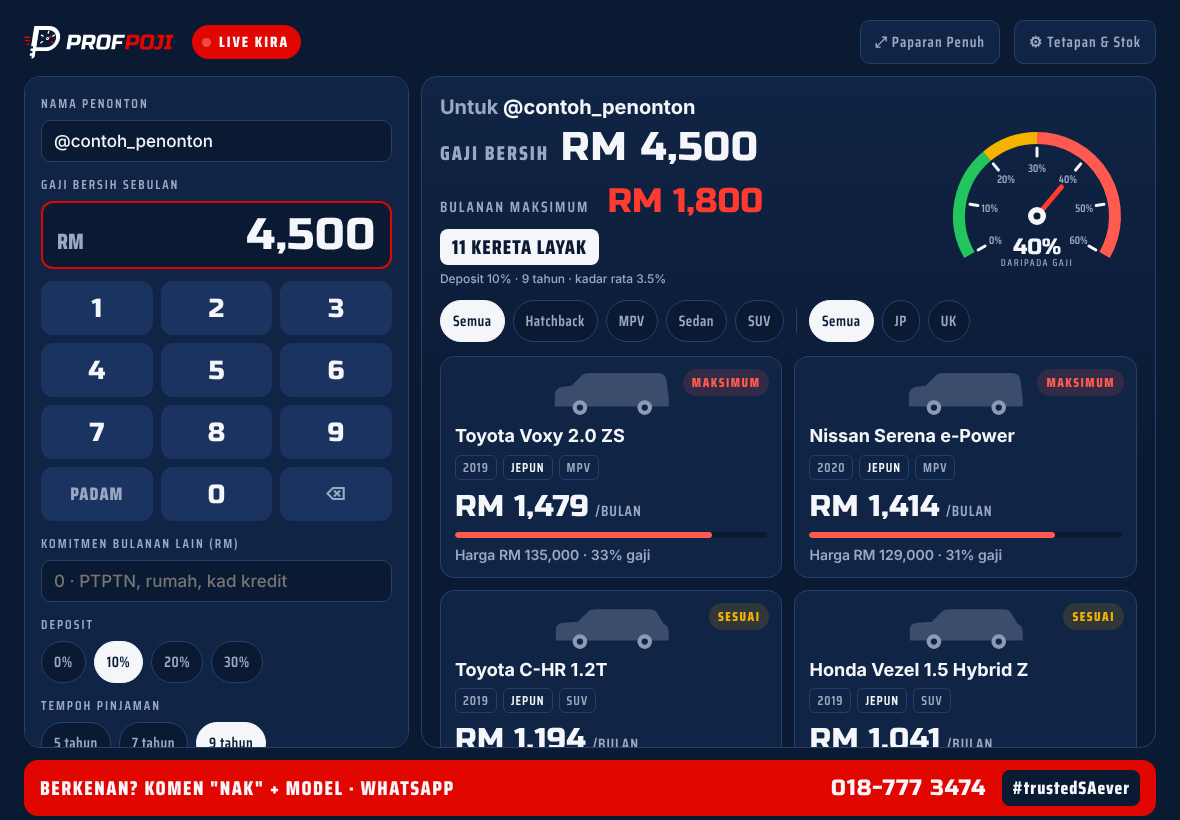
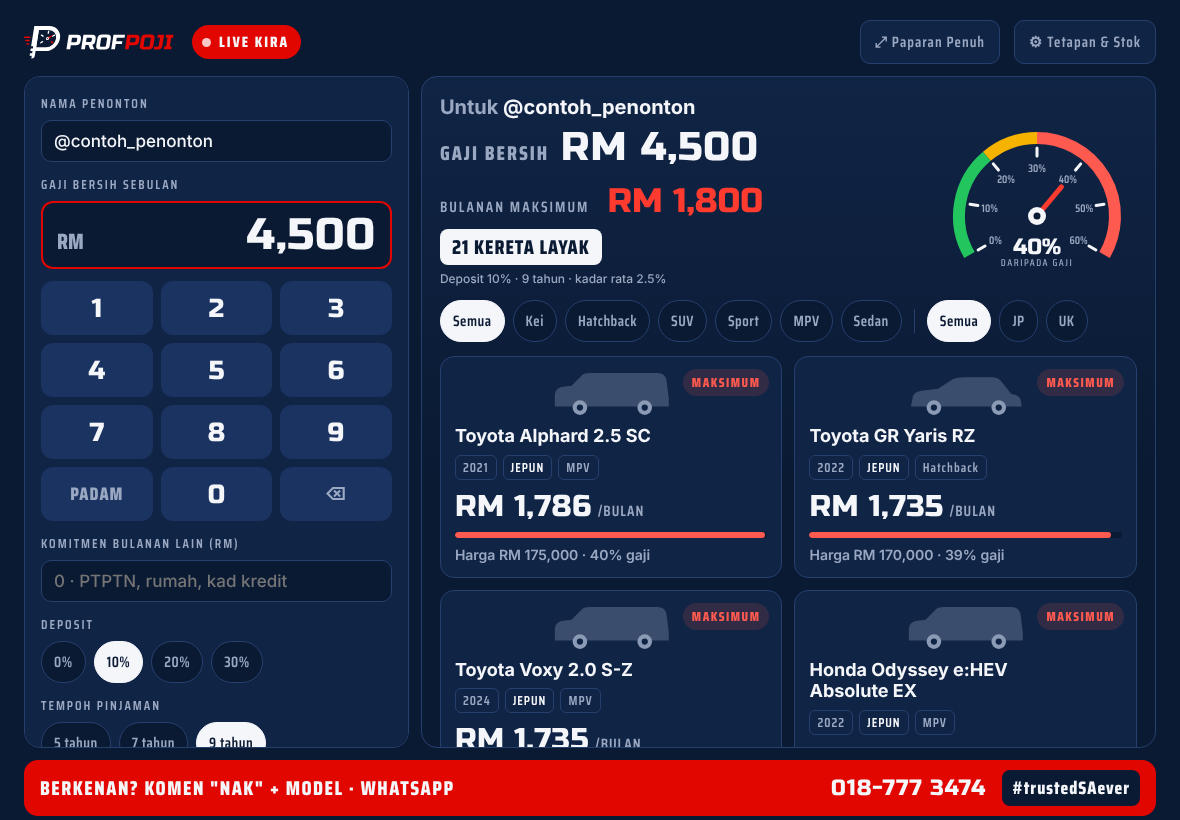
Live Kira: 2.5% flat rate and recond price estimates from dealer lists
Claude-Session: https://claude.ai/code/session_012NA3A3oBaozfWnPx4m1XVS

diff --git a/live-kira/index.html b/live-kira/index.html
@@ -179,7 +179,7 @@ button:focus-visible,input:focus-visible,textarea:focus-visible{outline:3px soli
     <p class="help">Bulanan maksimum = yang lebih rendah antara <b>gaji × had bulanan</b> dan <b>gaji × had DSR − komitmen</b>. Angka ini andaian awal; ubah ikut amalan bank yang anda guna.</p>
     <div class="field"><label class="lbl" for="sStock">Stok (satu kereta setiap baris: Model | Tahun | JP/UK | Harga | Jenis)</label>
       <textarea id="sStock" spellcheck="false"></textarea></div>
-    <p class="help">Senarai asal ialah <b>harga contoh</b> untuk demo. Gantikan dengan stok sebenar anda. Tetapan disimpan dalam pelayar iPad ini sahaja.</p>
+    <p class="help">Senarai asal ialah <b>harga anggaran kereta recond</b> (dikumpul dari senarai harga dealer, Nov 2026, dibundarkan ke RM5,000 terdekat). Ia bukan stok sebenar; ubah bila harga pasaran berubah. Tetapan disimpan dalam pelayar iPad ini sahaja.</p>
     <div class="acts">
       <button class="btn" id="sReset" type="button">Kembali ke contoh</button>
       <button class="btn" id="sClose" type="button">Batal</button>
@@ -189,29 +189,50 @@ button:focus-visible,input:focus-visible,textarea:focus-visible{outline:3px soli
 </div>
 
 <script>
-const SAMPLE_STOCK = `Toyota Aqua 1.5 Hybrid | 2017 | JP | 55000 | Hatchback
-Honda Fit 1.5 Hybrid | 2017 | JP | 58000 | Hatchback
-Nissan Note e-Power | 2018 | JP | 62000 | Hatchback
-Toyota Sienta 1.5 | 2018 | JP | 72000 | MPV
-Honda Freed 1.5 Hybrid | 2018 | JP | 76000 | MPV
-Toyota Prius 1.8 S | 2018 | JP | 85000 | Sedan
-Toyota Raize 1.0 Z | 2021 | JP | 88000 | SUV
-Honda Vezel 1.5 Hybrid Z | 2019 | JP | 95000 | SUV
-Toyota C-HR 1.2T | 2019 | JP | 109000 | SUV
-Nissan Serena e-Power | 2020 | JP | 129000 | MPV
-Toyota Voxy 2.0 ZS | 2019 | JP | 135000 | MPV
-Honda Odyssey 2.4 Absolute | 2019 | JP | 168000 | MPV
-Mini Cooper S 2.0 | 2019 | UK | 175000 | Hatchback
-Volvo XC40 T5 | 2019 | UK | 190000 | SUV
-Toyota Harrier 2.0 Premium | 2020 | JP | 198000 | SUV
-Lexus NX300 F Sport | 2019 | JP | 225000 | SUV
-Toyota Vellfire 2.5 ZG | 2020 | JP | 245000 | MPV
-Range Rover Evoque 2.0 | 2019 | UK | 265000 | SUV
-Toyota Alphard 2.5 SC | 2021 | JP | 330000 | MPV
-Porsche Macan 2.0 | 2018 | UK | 380000 | SUV`;
-const DEFAULTS = {rate:3.5, maxPct:40, dsr:60, selesa:20, sesuai:30, dep:10, years:9, stock:SAMPLE_STOCK};
+const SAMPLE_STOCK = `Daihatsu Taft G Turbo | 2021 | JP | 72000 | Kei
+Toyota Tank Custom G-T | 2020 | JP | 80000 | Kei
+Daihatsu Move Canbus G Turbo | 2023 | JP | 88000 | Kei
+Daihatsu Tanto Funcross Turbo | 2023 | JP | 90000 | Kei
+Suzuki Swift Sport | 2023 | JP | 110000 | Hatchback
+Toyota Corolla Sport GZ | 2022 | JP | 110000 | Hatchback
+Suzuki Jimny JC | 2023 | JP | 138000 | SUV
+Mazda Roadster RF | 2022 | JP | 138000 | Sport
+Subaru Levorg STI Sport | 2022 | JP | 140000 | Hatchback
+Subaru BRZ S | 2022 | JP | 143000 | Sport
+Honda Odyssey 2.4 Absolute EX | 2021 | JP | 150000 | MPV
+Toyota Harrier 2.0 Z | 2022 | JP | 155000 | SUV
+Mini Cooper S | 2022 | UK | 155000 | Hatchback
+Lexus UX200 | 2022 | JP | 155000 | SUV
+Toyota Voxy 2.0 S-Z | 2022 | JP | 155000 | MPV
+Toyota Noah 2.0 S-Z | 2023 | JP | 160000 | MPV
+Honda Odyssey e:HEV Absolute EX | 2022 | JP | 165000 | MPV
+Toyota GR86 RZ | 2022 | JP | 165000 | Sport
+Toyota GR Yaris RZ | 2022 | JP | 170000 | Hatchback
+Toyota Voxy 2.0 S-Z | 2024 | JP | 170000 | MPV
+Toyota Alphard 2.5 SC | 2021 | JP | 175000 | MPV
+Toyota Harrier 2.0 Z | 2024 | JP | 178000 | SUV
+Toyota Alphard 2.5 SC | 2022 | JP | 190000 | MPV
+BMW 420i M Sport Coupe | 2022 | UK | 205000 | Sport
+Mercedes-Benz C200 AMG Line | 2022 | UK | 208000 | Sedan
+Lexus NX250 | 2022 | JP | 212000 | SUV
+Mercedes-AMG A35 | 2022 | UK | 218000 | Hatchback
+Toyota Crown Sport Z | 2023 | JP | 220000 | SUV
+Range Rover Velar R-Dynamic | 2020 | UK | 225000 | SUV
+Honda Civic Type R FL5 | 2023 | JP | 228000 | Hatchback
+Toyota Land Cruiser Prado TX-L | 2023 | JP | 228000 | SUV
+Lexus IS300 F Sport | 2022 | JP | 230000 | Sedan
+Toyota Alphard 2.5 SC | 2023 | JP | 240000 | MPV
+Lexus NX350 F Sport | 2023 | JP | 253000 | SUV
+Toyota Alphard 2.5 Z (Model Baru) | 2024 | JP | 262000 | MPV
+Lexus LBX | 2025 | JP | 270000 | SUV
+Land Rover Defender 90 SE | 2023 | UK | 285000 | SUV
+Porsche Macan 2.0 | 2022 | UK | 300000 | SUV
+Lexus RX350 F Sport | 2023 | JP | 305000 | SUV
+Toyota Vellfire Z Premier (Model Baru) | 2024 | JP | 315000 | MPV
+Toyota Land Cruiser 300 ZX | 2023 | JP | 380000 | SUV`;
+const DEFAULTS = {rate:2.5, maxPct:40, dsr:60, selesa:20, sesuai:30, dep:10, years:9, stock:SAMPLE_STOCK};
 const store = {get(k){try{return JSON.parse(localStorage.getItem(k))}catch(e){return null}}, set(k,v){try{localStorage.setItem(k,JSON.stringify(v))}catch(e){}}};
-let S = Object.assign({}, DEFAULTS, store.get('pp-live-settings') || {});
+let S = Object.assign({}, DEFAULTS, store.get('pp-live-settings-v2') || {});
 let st = {nama:'@contoh_penonton', gaji:4500, komit:0, type:'Semua', origin:'Semua'};
 let hist = store.get('pp-live-hist') || [];
 let shown = true;
@@ -234,7 +255,9 @@ const SIL = {
   Hatchback:'M8 34 L10 24 Q12 20 18 19 L34 17 L48 8 Q52 6 58 6 L86 6 Q92 6 96 12 L104 22 Q112 23 113 28 L114 34 Z',
   Sedan:'M6 34 L8 26 Q10 22 18 21 L36 19 L50 10 Q54 8 60 8 L80 8 Q86 8 90 12 L98 19 L110 21 Q115 23 115 28 L115 34 Z',
   SUV:'M7 34 L7 22 Q8 18 14 17 L28 16 L38 6 Q40 4 46 4 L96 4 Q102 4 104 8 L110 18 Q115 20 115 26 L115 34 Z',
-  MPV:'M6 34 L6 22 Q7 16 14 15 L22 14 L32 4 Q34 2 40 2 L104 2 Q112 2 113 10 L115 26 L115 34 Z'
+  MPV:'M6 34 L6 22 Q7 16 14 15 L22 14 L32 4 Q34 2 40 2 L104 2 Q112 2 113 10 L115 26 L115 34 Z',
+  Kei:'M14 34 L14 20 Q15 15 20 14 L28 13 L34 3 Q36 1 42 1 L94 1 Q102 1 103 8 L106 24 L106 34 Z',
+  Sport:'M4 34 L6 28 Q8 24 16 23 L38 21 L56 13 Q62 11 70 11 L84 11 Q92 12 98 18 L108 22 Q116 24 116 30 L116 34 Z'
 };
 function sil(type){
   const d = SIL[type] || SIL.Sedan;
@@ -323,8 +346,8 @@ function chips(el, vals, cur, fmt, set){
   el.innerHTML = vals.map(v=>`<button class="chip" type="button" data-v="${v}" aria-pressed="${v==cur}">${fmt(v)}</button>`).join('');
   el.onclick = e=>{ const b=e.target.closest('button'); if(!b) return; set(+b.dataset.v); el.querySelectorAll('.chip').forEach(c=>c.setAttribute('aria-pressed', c===b)); render(); };
 }
-chips($('depChips'), [0,10,20,30], S.dep, v=>v+'%', v=>{S.dep=v; store.set('pp-live-settings',S);});
-chips($('yrChips'), [5,7,9], S.years, v=>v+' tahun', v=>{S.years=v; store.set('pp-live-settings',S);});
+chips($('depChips'), [0,10,20,30], S.dep, v=>v+'%', v=>{S.dep=v; store.set('pp-live-settings-v2',S);});
+chips($('yrChips'), [5,7,9], S.years, v=>v+' tahun', v=>{S.years=v; store.set('pp-live-settings-v2',S);});
 $('komit').addEventListener('input', e=>{ st.komit = +e.target.value.replace(/\D/g,'') || 0; if(shown) render(); });
 $('nama').addEventListener('input', e=>{ st.nama = e.target.value.trim(); if(shown) render(); });
 $('go').addEventListener('click', ()=>{
@@ -349,7 +372,7 @@ $('sClose').addEventListener('click', ()=>$('sheet').hidden=true);
 $('sReset').addEventListener('click', ()=>{ $('sStock').value = SAMPLE_STOCK; for(const [id,k] of Object.entries(fields)) $(id).value = DEFAULTS[k]; });
 $('sSave').addEventListener('click', ()=>{
   for(const [id,k] of Object.entries(fields)){ const v=parseFloat($(id).value); if(!isNaN(v)) S[k]=v; }
-  S.stock = $('sStock').value; store.set('pp-live-settings', S); $('sheet').hidden=true; render();
+  S.stock = $('sStock').value; store.set('pp-live-settings-v2', S); $('sheet').hidden=true; render();
 });
 
 $('nama').value = st.nama; drawGaji(); drawHist(); render();

diff --git a/live-kira/src/template.html b/live-kira/src/template.html
@@ -179,7 +179,7 @@ button:focus-visible,input:focus-visible,textarea:focus-visible{outline:3px soli
     <p class="help">Bulanan maksimum = yang lebih rendah antara <b>gaji × had bulanan</b> dan <b>gaji × had DSR − komitmen</b>. Angka ini andaian awal; ubah ikut amalan bank yang anda guna.</p>
     <div class="field"><label class="lbl" for="sStock">Stok (satu kereta setiap baris: Model | Tahun | JP/UK | Harga | Jenis)</label>
       <textarea id="sStock" spellcheck="false"></textarea></div>
-    <p class="help">Senarai asal ialah <b>harga contoh</b> untuk demo. Gantikan dengan stok sebenar anda. Tetapan disimpan dalam pelayar iPad ini sahaja.</p>
+    <p class="help">Senarai asal ialah <b>harga anggaran kereta recond</b> (dikumpul dari senarai harga dealer, Nov 2026, dibundarkan ke RM5,000 terdekat). Ia bukan stok sebenar; ubah bila harga pasaran berubah. Tetapan disimpan dalam pelayar iPad ini sahaja.</p>
     <div class="acts">
       <button class="btn" id="sReset" type="button">Kembali ke contoh</button>
       <button class="btn" id="sClose" type="button">Batal</button>
@@ -189,29 +189,50 @@ button:focus-visible,input:focus-visible,textarea:focus-visible{outline:3px soli
 </div>
 
 <script>
-const SAMPLE_STOCK = `Toyota Aqua 1.5 Hybrid | 2017 | JP | 55000 | Hatchback
-Honda Fit 1.5 Hybrid | 2017 | JP | 58000 | Hatchback
-Nissan Note e-Power | 2018 | JP | 62000 | Hatchback
-Toyota Sienta 1.5 | 2018 | JP | 72000 | MPV
-Honda Freed 1.5 Hybrid | 2018 | JP | 76000 | MPV
-Toyota Prius 1.8 S | 2018 | JP | 85000 | Sedan
-Toyota Raize 1.0 Z | 2021 | JP | 88000 | SUV
-Honda Vezel 1.5 Hybrid Z | 2019 | JP | 95000 | SUV
-Toyota C-HR 1.2T | 2019 | JP | 109000 | SUV
-Nissan Serena e-Power | 2020 | JP | 129000 | MPV
-Toyota Voxy 2.0 ZS | 2019 | JP | 135000 | MPV
-Honda Odyssey 2.4 Absolute | 2019 | JP | 168000 | MPV
-Mini Cooper S 2.0 | 2019 | UK | 175000 | Hatchback
-Volvo XC40 T5 | 2019 | UK | 190000 | SUV
-Toyota Harrier 2.0 Premium | 2020 | JP | 198000 | SUV
-Lexus NX300 F Sport | 2019 | JP | 225000 | SUV
-Toyota Vellfire 2.5 ZG | 2020 | JP | 245000 | MPV
-Range Rover Evoque 2.0 | 2019 | UK | 265000 | SUV
-Toyota Alphard 2.5 SC | 2021 | JP | 330000 | MPV
-Porsche Macan 2.0 | 2018 | UK | 380000 | SUV`;
-const DEFAULTS = {rate:3.5, maxPct:40, dsr:60, selesa:20, sesuai:30, dep:10, years:9, stock:SAMPLE_STOCK};
+const SAMPLE_STOCK = `Daihatsu Taft G Turbo | 2021 | JP | 72000 | Kei
+Toyota Tank Custom G-T | 2020 | JP | 80000 | Kei
+Daihatsu Move Canbus G Turbo | 2023 | JP | 88000 | Kei
+Daihatsu Tanto Funcross Turbo | 2023 | JP | 90000 | Kei
+Suzuki Swift Sport | 2023 | JP | 110000 | Hatchback
+Toyota Corolla Sport GZ | 2022 | JP | 110000 | Hatchback
+Suzuki Jimny JC | 2023 | JP | 138000 | SUV
+Mazda Roadster RF | 2022 | JP | 138000 | Sport
+Subaru Levorg STI Sport | 2022 | JP | 140000 | Hatchback
+Subaru BRZ S | 2022 | JP | 143000 | Sport
+Honda Odyssey 2.4 Absolute EX | 2021 | JP | 150000 | MPV
+Toyota Harrier 2.0 Z | 2022 | JP | 155000 | SUV
+Mini Cooper S | 2022 | UK | 155000 | Hatchback
+Lexus UX200 | 2022 | JP | 155000 | SUV
+Toyota Voxy 2.0 S-Z | 2022 | JP | 155000 | MPV
+Toyota Noah 2.0 S-Z | 2023 | JP | 160000 | MPV
+Honda Odyssey e:HEV Absolute EX | 2022 | JP | 165000 | MPV
+Toyota GR86 RZ | 2022 | JP | 165000 | Sport
+Toyota GR Yaris RZ | 2022 | JP | 170000 | Hatchback
+Toyota Voxy 2.0 S-Z | 2024 | JP | 170000 | MPV
+Toyota Alphard 2.5 SC | 2021 | JP | 175000 | MPV
+Toyota Harrier 2.0 Z | 2024 | JP | 178000 | SUV
+Toyota Alphard 2.5 SC | 2022 | JP | 190000 | MPV
+BMW 420i M Sport Coupe | 2022 | UK | 205000 | Sport
+Mercedes-Benz C200 AMG Line | 2022 | UK | 208000 | Sedan
+Lexus NX250 | 2022 | JP | 212000 | SUV
+Mercedes-AMG A35 | 2022 | UK | 218000 | Hatchback
+Toyota Crown Sport Z | 2023 | JP | 220000 | SUV
+Range Rover Velar R-Dynamic | 2020 | UK | 225000 | SUV
+Honda Civic Type R FL5 | 2023 | JP | 228000 | Hatchback
+Toyota Land Cruiser Prado TX-L | 2023 | JP | 228000 | SUV
+Lexus IS300 F Sport | 2022 | JP | 230000 | Sedan
+Toyota Alphard 2.5 SC | 2023 | JP | 240000 | MPV
+Lexus NX350 F Sport | 2023 | JP | 253000 | SUV
+Toyota Alphard 2.5 Z (Model Baru) | 2024 | JP | 262000 | MPV
+Lexus LBX | 2025 | JP | 270000 | SUV
+Land Rover Defender 90 SE | 2023 | UK | 285000 | SUV
+Porsche Macan 2.0 | 2022 | UK | 300000 | SUV
+Lexus RX350 F Sport | 2023 | JP | 305000 | SUV
+Toyota Vellfire Z Premier (Model Baru) | 2024 | JP | 315000 | MPV
+Toyota Land Cruiser 300 ZX | 2023 | JP | 380000 | SUV`;
+const DEFAULTS = {rate:2.5, maxPct:40, dsr:60, selesa:20, sesuai:30, dep:10, years:9, stock:SAMPLE_STOCK};
 const store = {get(k){try{return JSON.parse(localStorage.getItem(k))}catch(e){return null}}, set(k,v){try{localStorage.setItem(k,JSON.stringify(v))}catch(e){}}};
-let S = Object.assign({}, DEFAULTS, store.get('pp-live-settings') || {});
+let S = Object.assign({}, DEFAULTS, store.get('pp-live-settings-v2') || {});
 let st = {nama:'@contoh_penonton', gaji:4500, komit:0, type:'Semua', origin:'Semua'};
 let hist = store.get('pp-live-hist') || [];
 let shown = true;
@@ -234,7 +255,9 @@ const SIL = {
   Hatchback:'M8 34 L10 24 Q12 20 18 19 L34 17 L48 8 Q52 6 58 6 L86 6 Q92 6 96 12 L104 22 Q112 23 113 28 L114 34 Z',
   Sedan:'M6 34 L8 26 Q10 22 18 21 L36 19 L50 10 Q54 8 60 8 L80 8 Q86 8 90 12 L98 19 L110 21 Q115 23 115 28 L115 34 Z',
   SUV:'M7 34 L7 22 Q8 18 14 17 L28 16 L38 6 Q40 4 46 4 L96 4 Q102 4 104 8 L110 18 Q115 20 115 26 L115 34 Z',
-  MPV:'M6 34 L6 22 Q7 16 14 15 L22 14 L32 4 Q34 2 40 2 L104 2 Q112 2 113 10 L115 26 L115 34 Z'
+  MPV:'M6 34 L6 22 Q7 16 14 15 L22 14 L32 4 Q34 2 40 2 L104 2 Q112 2 113 10 L115 26 L115 34 Z',
+  Kei:'M14 34 L14 20 Q15 15 20 14 L28 13 L34 3 Q36 1 42 1 L94 1 Q102 1 103 8 L106 24 L106 34 Z',
+  Sport:'M4 34 L6 28 Q8 24 16 23 L38 21 L56 13 Q62 11 70 11 L84 11 Q92 12 98 18 L108 22 Q116 24 116 30 L116 34 Z'
 };
 function sil(type){
   const d = SIL[type] || SIL.Sedan;
@@ -323,8 +346,8 @@ function chips(el, vals, cur, fmt, set){
   el.innerHTML = vals.map(v=>`<button class="chip" type="button" data-v="${v}" aria-pressed="${v==cur}">${fmt(v)}</button>`).join('');
   el.onclick = e=>{ const b=e.target.closest('button'); if(!b) return; set(+b.dataset.v); el.querySelectorAll('.chip').forEach(c=>c.setAttribute('aria-pressed', c===b)); render(); };
 }
-chips($('depChips'), [0,10,20,30], S.dep, v=>v+'%', v=>{S.dep=v; store.set('pp-live-settings',S);});
-chips($('yrChips'), [5,7,9], S.years, v=>v+' tahun', v=>{S.years=v; store.set('pp-live-settings',S);});
+chips($('depChips'), [0,10,20,30], S.dep, v=>v+'%', v=>{S.dep=v; store.set('pp-live-settings-v2',S);});
+chips($('yrChips'), [5,7,9], S.years, v=>v+' tahun', v=>{S.years=v; store.set('pp-live-settings-v2',S);});
 $('komit').addEventListener('input', e=>{ st.komit = +e.target.value.replace(/\D/g,'') || 0; if(shown) render(); });
 $('nama').addEventListener('input', e=>{ st.nama = e.target.value.trim(); if(shown) render(); });
 $('go').addEventListener('click', ()=>{
@@ -349,7 +372,7 @@ $('sClose').addEventListener('click', ()=>$('sheet').hidden=true);
 $('sReset').addEventListener('click', ()=>{ $('sStock').value = SAMPLE_STOCK; for(const [id,k] of Object.entries(fields)) $(id).value = DEFAULTS[k]; });
 $('sSave').addEventListener('click', ()=>{
   for(const [id,k] of Object.entries(fields)){ const v=parseFloat($(id).value); if(!isNaN(v)) S[k]=v; }
-  S.stock = $('sStock').value; store.set('pp-live-settings', S); $('sheet').hidden=true; render();
+  S.stock = $('sStock').value; store.set('pp-live-settings-v2', S); $('sheet').hidden=true; render();
 });
 
 $('nama').value = st.nama; drawGaji(); drawHist(); render();
